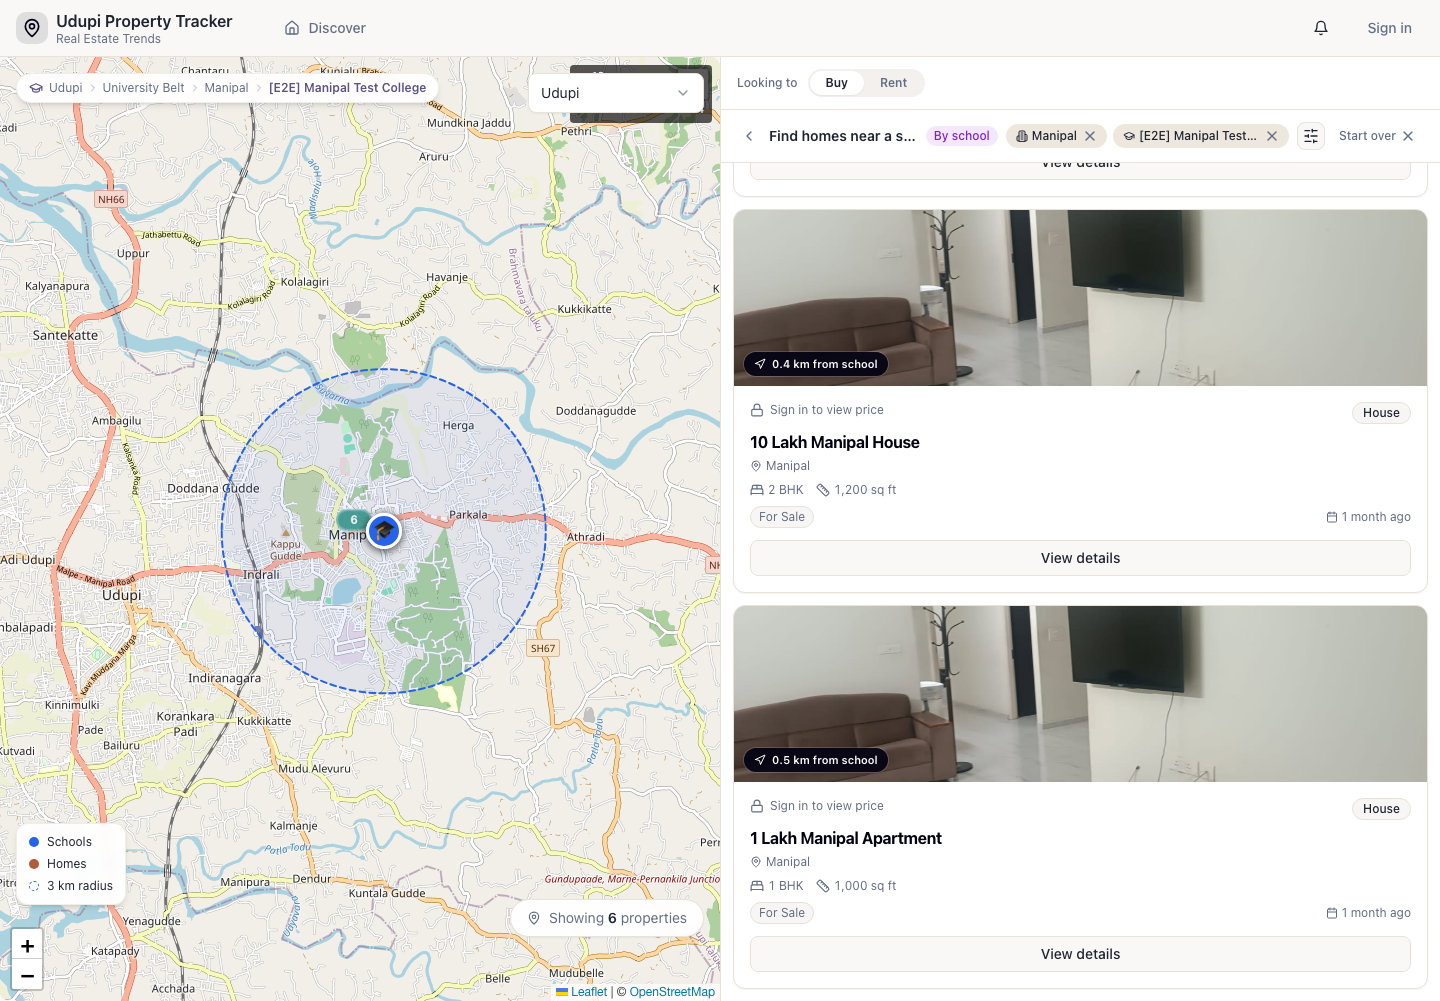
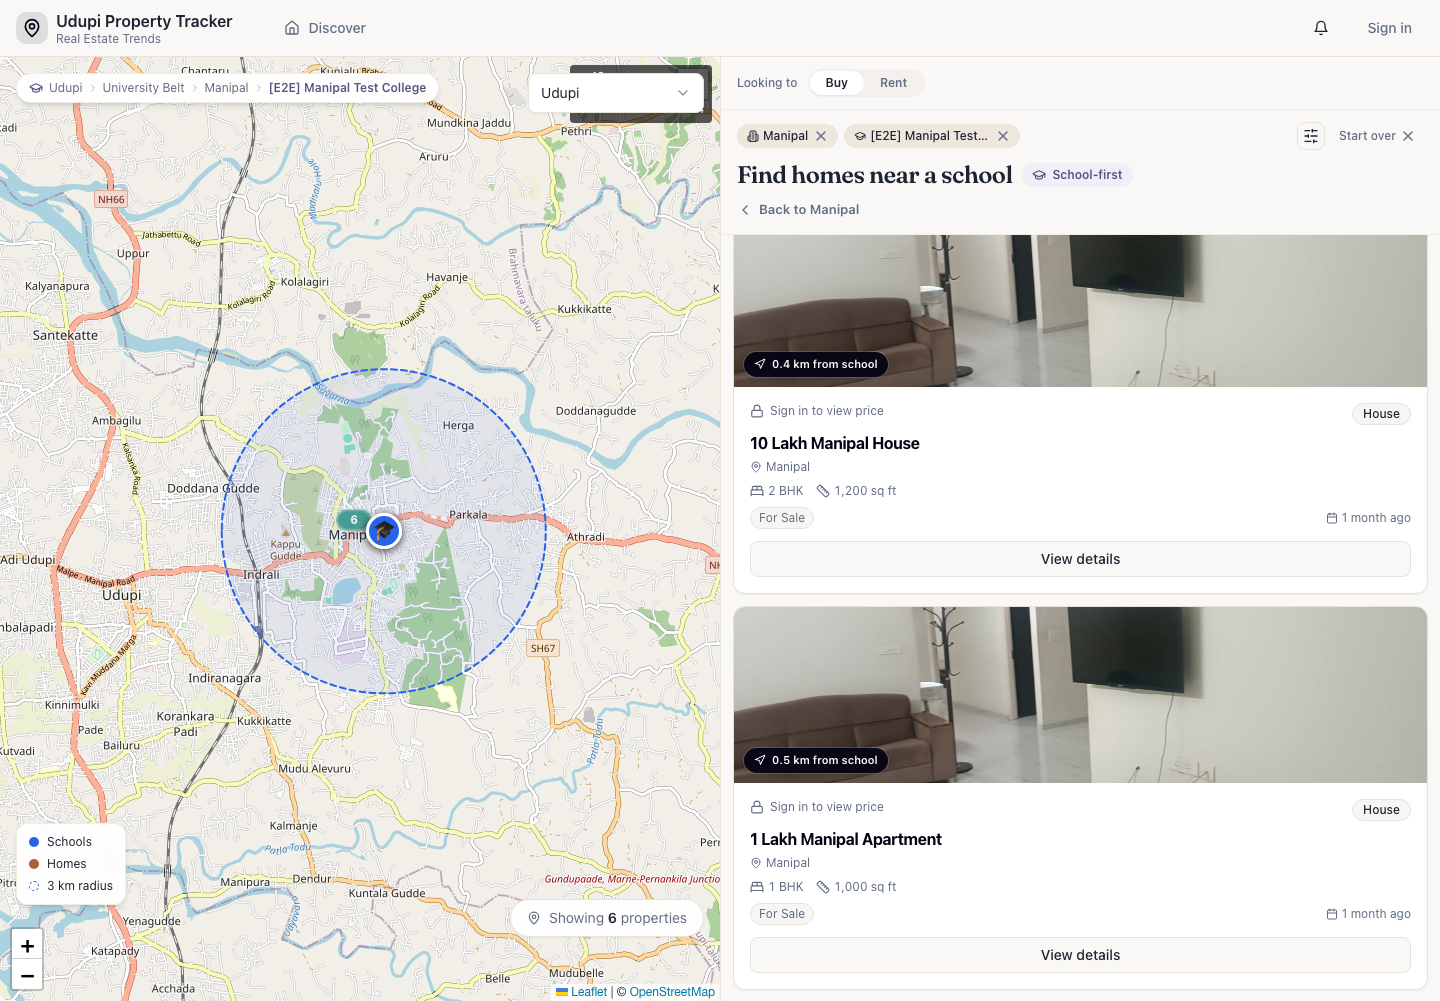
feat(discover): polish school-first journey header + continuous bg + breadcrumb fix
Four mock-alignment improvements to the school-first discover panels (verified live
on FE :5175 -> BE :8086 against the ReTrends school-discovery mock):

1. Header title + journey tag (PanelHeader, shared): "Find homes near a school" now
   renders as a Fraunces serif headline (24px), and the journey pill shows
   "School-first" in the plum accent (plum-tint bg + plum text) with a graduation-cap
   icon, matching the mock. area-first/agri pills get matching icon + "*-first" labels.

2. Back affordance: moved from an inline chevron before the title to a labelled
   "Back to {previous}" link BELOW the title (mock placement). Threaded backLabel:
   schools-in-area -> zone ("Back to University Belt"); area-school-combined -> area
   ("Back to Manipal"). Falls back to "Back" when no label is available.

3. Continuous background: the right panel + header now use one bg-background (warm
   canvas) instead of bg-card white, so the whole panel reads as a single continuous
   surface with white cards floating on it (mock --background). Border seams softened.

4. Map breadcrumb: gate the school segment on urlState.schoolId (URL = source of
   truth) so a stale selectedSchool (React state lagging a back-to-area navigation)
   can no longer show an education institution while the user is still at area level.

Verified: area-level header is Fraunces serif 24px + "School-first" plum pill
(rgb(93,81,133) on rgb(240,238,247)) + "Back to University Belt"; panel/header bg
[…]

diff --git a/src/components/discover/PanelHeader.tsx b/src/components/discover/PanelHeader.tsx
@@ -1,22 +1,34 @@
 import React from 'react';
-import { ChevronLeft, X } from 'lucide-react';
+import { ChevronLeft, X, GraduationCap, MapPin, Sprout } from 'lucide-react';
 import { cn } from '@/lib/utils';
 import { Button } from '@/components/ui/button';
 import type { DiscoverJourney } from '@/hooks/useDiscoverUrlState';
 
-const JOURNEY_LABELS: Record<DiscoverJourney, string> = {
-  'area-first': 'By area',
-  'school-first': 'By school',
-  'agri-first': 'Agricultural land',
-};
+interface JourneyPill {
+  label: string;
+  icon: typeof GraduationCap;
+  className: string;
+}
 
-const JOURNEY_PILL_CLASSES: Record<DiscoverJourney, string> = {
-  'area-first':
-    'bg-blue-100 text-blue-700 dark:bg-blue-950/40 dark:text-blue-300',
-  'school-first':
-    'bg-purple-100 text-purple-700 dark:bg-purple-950/40 dark:text-purple-300',
-  'agri-first':
-    'bg-green-100 text-green-700 dark:bg-green-950/40 dark:text-green-300',
+// Journey pill — label + icon + tone. school-first uses the restrained plum accent
+// (matches the ReTrends school-discovery mock "School-first" tag); area/agri keep
+// their existing blue/green tones.
+const JOURNEY_PILL: Record<DiscoverJourney, JourneyPill> = {
+  'area-first': {
+    label: 'Area-first',
+    icon: MapPin,
+    className: 'bg-blue-100 text-blue-700 dark:bg-blue-950/40 dark:text-blue-300',
+  },
+  'school-first': {
+    label: 'School-first',
+    icon: GraduationCap,
+    className: 'bg-[hsl(var(--plum-tint))] text-[hsl(var(--plum))]',
+  },
+  'agri-first': {
+    label: 'Agricultural',
+    icon: Sprout,
+    className: 'bg-green-100 text-green-700 dark:bg-green-950/40 dark:text-green-300',
+  },
 };
 
 interface PanelHeaderProps {
@@ -24,14 +36,16 @@ interface PanelHeaderProps {
   journey?: DiscoverJourney | null;
   onStartOver?: () => void;
   /**
-   * When provided, renders a Back chevron button before the title.
-   * Used by school-first journey panels (Level 1 and Level 2) to step back
-   * without a full Start Over reset. Issue #1143.
+   * When provided, renders a "Back" link BELOW the title (matches the mock's
+   * journey header, where the back affordance sits under the headline rather than
+   * inline before it). Issue #1143 / school-results-design-polish.
    */
   onBack?: () => void;
-  /** Contextual chips rendered in the centre of the header (e.g. active area/school pills). */
+  /** Previous-level name shown as "Back to {backLabel}" (e.g. "University Belt", "Manipal"). */
+  backLabel?: string | null;
+  /** Contextual chips rendered on the top row (e.g. active area/school pills). */
   activeContextChips?: React.ReactNode;
-  /** Extra action buttons rendered to the right of the title, before Start Over. */
+  /** Extra action buttons rendered to the right, before Start Over. */
   actions?: React.ReactNode;
 }
 
@@ -40,63 +54,71 @@ export function PanelHeader({
   journey,
   onStartOver,
   onBack,
+  backLabel,
   activeContextChips,
   actions,
 }: PanelHeaderProps) {
   const showStartOver = journey != null && onStartOver != null;
+  const pill = journey != null ? JOURNEY_PILL[journey] : null;
+  const showTopRow = activeContextChips != null || actions != null || showStartOver;
 
   return (
-    <div className="sticky top-0 z-20 bg-card border-b border-border flex-shrink-0 flex items-center gap-2 px-4 py-3">
-      {/* Optional Back button — rendered before the title for Level 1 / Level 2 school-first states */}
-      {onBack != null && (
-        <button
-          type="button"
-          onClick={onBack}
-          aria-label="Back"
-          data-testid="panel-header-back-button"
-          className="shrink-0 flex items-center justify-center h-6 w-6 rounded hover:bg-muted transition-colors text-muted-foreground hover:text-foreground focus-visible:outline-none focus-visible:ring-2 focus-visible:ring-ring"
-        >
-          <ChevronLeft className="h-4 w-4" aria-hidden="true" />
-        </button>
+    <div className="sticky top-0 z-20 flex-shrink-0 flex flex-col gap-2.5 bg-background border-b border-border/50 px-4 pt-3 pb-3.5">
+      {/* Top row: context chips (left) + actions / Start over (right) */}
+      {showTopRow && (
+        <div className="flex items-center justify-between gap-2">
+          <div className="flex min-w-0 items-center gap-1.5">{activeContextChips}</div>
+          {(actions != null || showStartOver) && (
+            <div className="flex items-center gap-1.5 shrink-0">
+              {actions}
+              {showStartOver && (
+                <Button
+                  variant="ghost"
+                  size="sm"
+                  className="h-7 px-2 text-xs gap-1 text-muted-foreground hover:text-foreground"
+                  onClick={onStartOver}
+                  aria-label="Start over and return to journey selection"
+                  data-testid="start-over-button"
+                >
+                  Start over
+                  <X className="h-3.5 w-3.5" />
+                </Button>
+              )}
+            </div>
+          )}
+        </div>
       )}
-      {/* Title + optional journey pill */}
-      <div className="flex items-center gap-2 min-w-0 flex-1">
-        <h2 className="text-sm font-semibold truncate">{title}</h2>
-        {journey != null && (
+
+      {/* Title + journey pill */}
+      <div className="flex items-center gap-2.5 flex-wrap">
+        <h1 className="font-['Fraunces',_ui-serif,_Georgia,_serif] text-2xl font-semibold leading-tight tracking-tight text-foreground">
+          {title}
+        </h1>
+        {pill != null && (
           <span
             className={cn(
-              'shrink-0 text-xs px-2 py-0.5 rounded-full font-medium',
-              JOURNEY_PILL_CLASSES[journey],
+              'shrink-0 inline-flex items-center gap-1.5 text-xs px-2.5 py-1 rounded-full font-semibold',
+              pill.className,
             )}
           >
-            {JOURNEY_LABELS[journey]}
+            <pill.icon className="h-3.5 w-3.5" aria-hidden />
+            {pill.label}
           </span>
         )}
       </div>
 
-      {/* Centre: context chips (A4 placeholder) */}
-      {activeContextChips != null && (
-        <div className="flex items-center gap-1.5">{activeContextChips}</div>
-      )}
-
-      {/* Right: extra actions + Start Over */}
-      {(actions != null || showStartOver) && (
-        <div className="flex items-center gap-1.5 shrink-0">
-          {actions}
-          {showStartOver && (
-            <Button
-              variant="ghost"
-              size="sm"
-              className="h-7 px-2 text-xs gap-1 text-muted-foreground hover:text-foreground"
-              onClick={onStartOver}
-              aria-label="Start over and return to journey selection"
-              data-testid="start-over-button"
-            >
-              Start over
-              <X className="h-3.5 w-3.5" />
-            </Button>
-          )}
-        </div>
+      {/* Back link — below the title (mock placement) */}
+      {onBack != null && (
+        <button
+          type="button"
+          onClick={onBack}
+          aria-label={backLabel ? `Back to ${backLabel}` : 'Back'}
+          data-testid="panel-header-back-button"
+          className="flex w-fit items-center gap-1.5 text-[13px] font-semibold text-muted-foreground hover:text-foreground transition-colors focus-visible:outline-none focus-visible:ring-2 focus-visible:ring-ring rounded"
+        >
+          <ChevronLeft className="h-4 w-4 shrink-0" aria-hidden="true" />
+          {backLabel ? `Back to ${backLabel}` : 'Back'}
+        </button>
       )}
     </div>
   );

diff --git a/src/components/discover/DiscoverRightPanel.tsx b/src/components/discover/DiscoverRightPanel.tsx
@@ -1318,13 +1318,13 @@ export function DiscoverRightPanel({
 
   return (
     <div
-      className="flex flex-col lg:w-1/2 border-l border-border bg-card overflow-hidden order-2 lg:order-2"
+      className="flex flex-col lg:w-1/2 border-l border-border bg-background overflow-hidden order-2 lg:order-2"
       data-testid="discover-right-panel"
     >
       {/* Issue #1494 — Buy/Rent intent selector, always visible at the top of the right
           panel. Left-aligned (Figma) so it sits on the content side, above the journey cards. */}
       {onIntentChange && (
-        <div className="flex items-center justify-start gap-3 px-4 py-3 border-b border-border shrink-0 bg-card">
+        <div className="flex items-center justify-start gap-3 px-4 py-3 border-b border-border/50 shrink-0 bg-background">
           <IntentSelector intent={intent} onIntentChange={onIntentChange} />
         </div>
       )}

diff --git a/src/components/discover/panels/SchoolsInAreaPanel.tsx b/src/components/discover/panels/SchoolsInAreaPanel.tsx
@@ -5,6 +5,7 @@ import { useSchoolsByArea } from '@/hooks/useSchoolsByArea';
 import { useDiscoverUrlState, type DiscoverIntent } from '@/hooks/useDiscoverUrlState';
 import { useDiscoverAreas } from '@/hooks/useDiscoverAreas';
 import { PanelHeader } from '../PanelHeader';
+import { prettifyZoneSlug } from '@/components/discover/SchoolRadiusMapOverlay';
 import { Button } from '@/components/ui/button';
 import { Input } from '@/components/ui/input';
 import { Skeleton } from '@/components/ui/skeleton';
@@ -340,6 +341,7 @@ export function SchoolsInAreaPanel({ journey, onStartOver, onBack, schools: scho
         journey={journey}
         onStartOver={onStartOver}
         onBack={onBack}
+        backLabel={isSchoolFirst && urlState.groupId ? prettifyZoneSlug(urlState.groupId) : areaLabel}
         activeContextChips={activeContextChips}
       />
 

diff --git a/src/pages/MapDiscovery.tsx b/src/pages/MapDiscovery.tsx
@@ -1943,7 +1943,11 @@ export default function MapDiscovery() {
                 cityLabel={CITY_CONFIG[city]?.label ?? city}
                 zoneLabel={focusedGroup?.name ?? prettifyZoneSlug(urlState.groupId)}
                 areaLabel={selectedArea?.areaLabel ?? areaKeyToLabel(urlState.areaKey)}
-                schoolName={selectedSchool?.name ?? null}
+                // Source of truth is the URL: only show the school segment when a
+                // schoolId is actually selected. Guards against a stale selectedSchool
+                // (React state lagging a back-to-area navigation) injecting a school
+                // segment while the user is still at area level.
+                schoolName={urlState.schoolId ? (selectedSchool?.name ?? null) : null}
               />
             ) : (
               <AreaIndicatorOverlay

diff --git a/src/components/discover/panels/SchoolJourneyPanels.tsx b/src/components/discover/panels/SchoolJourneyPanels.tsx
@@ -1460,6 +1460,7 @@ export function AreaSchoolCombinedPanel({
           journey={journey}
           onStartOver={onStartOver}
           onBack={onBack}
+          backLabel={selectedArea?.areaLabel ?? undefined}
           activeContextChips={activeContextChips}
         />
         <div className="space-y-3 p-4" data-testid="combined-loading-skeleton">
@@ -1483,6 +1484,7 @@ export function AreaSchoolCombinedPanel({
         journey={journey}
         onStartOver={onStartOver}
         onBack={onBack}
+        backLabel={selectedArea?.areaLabel ?? undefined}
         activeContextChips={activeContextChips}
         actions={
           <>
